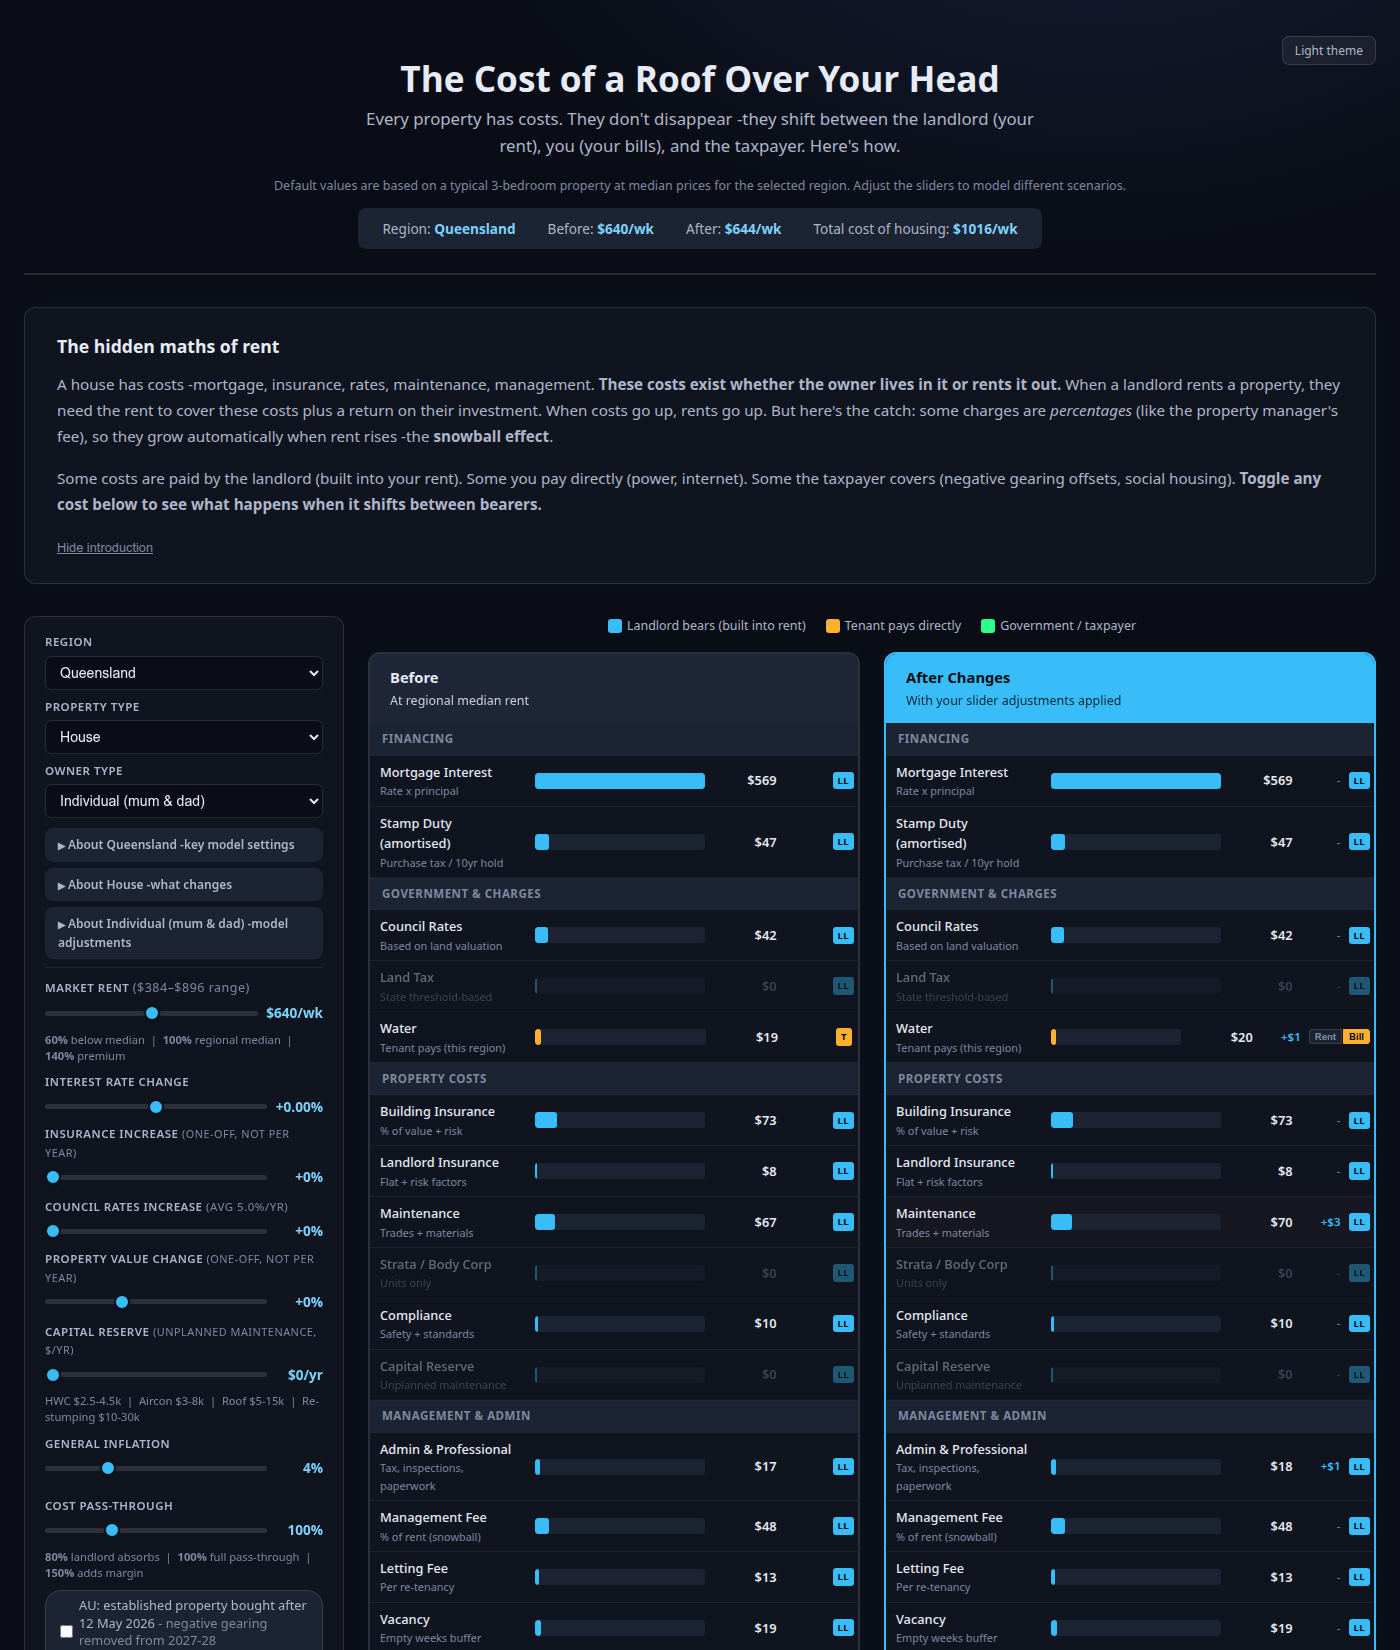
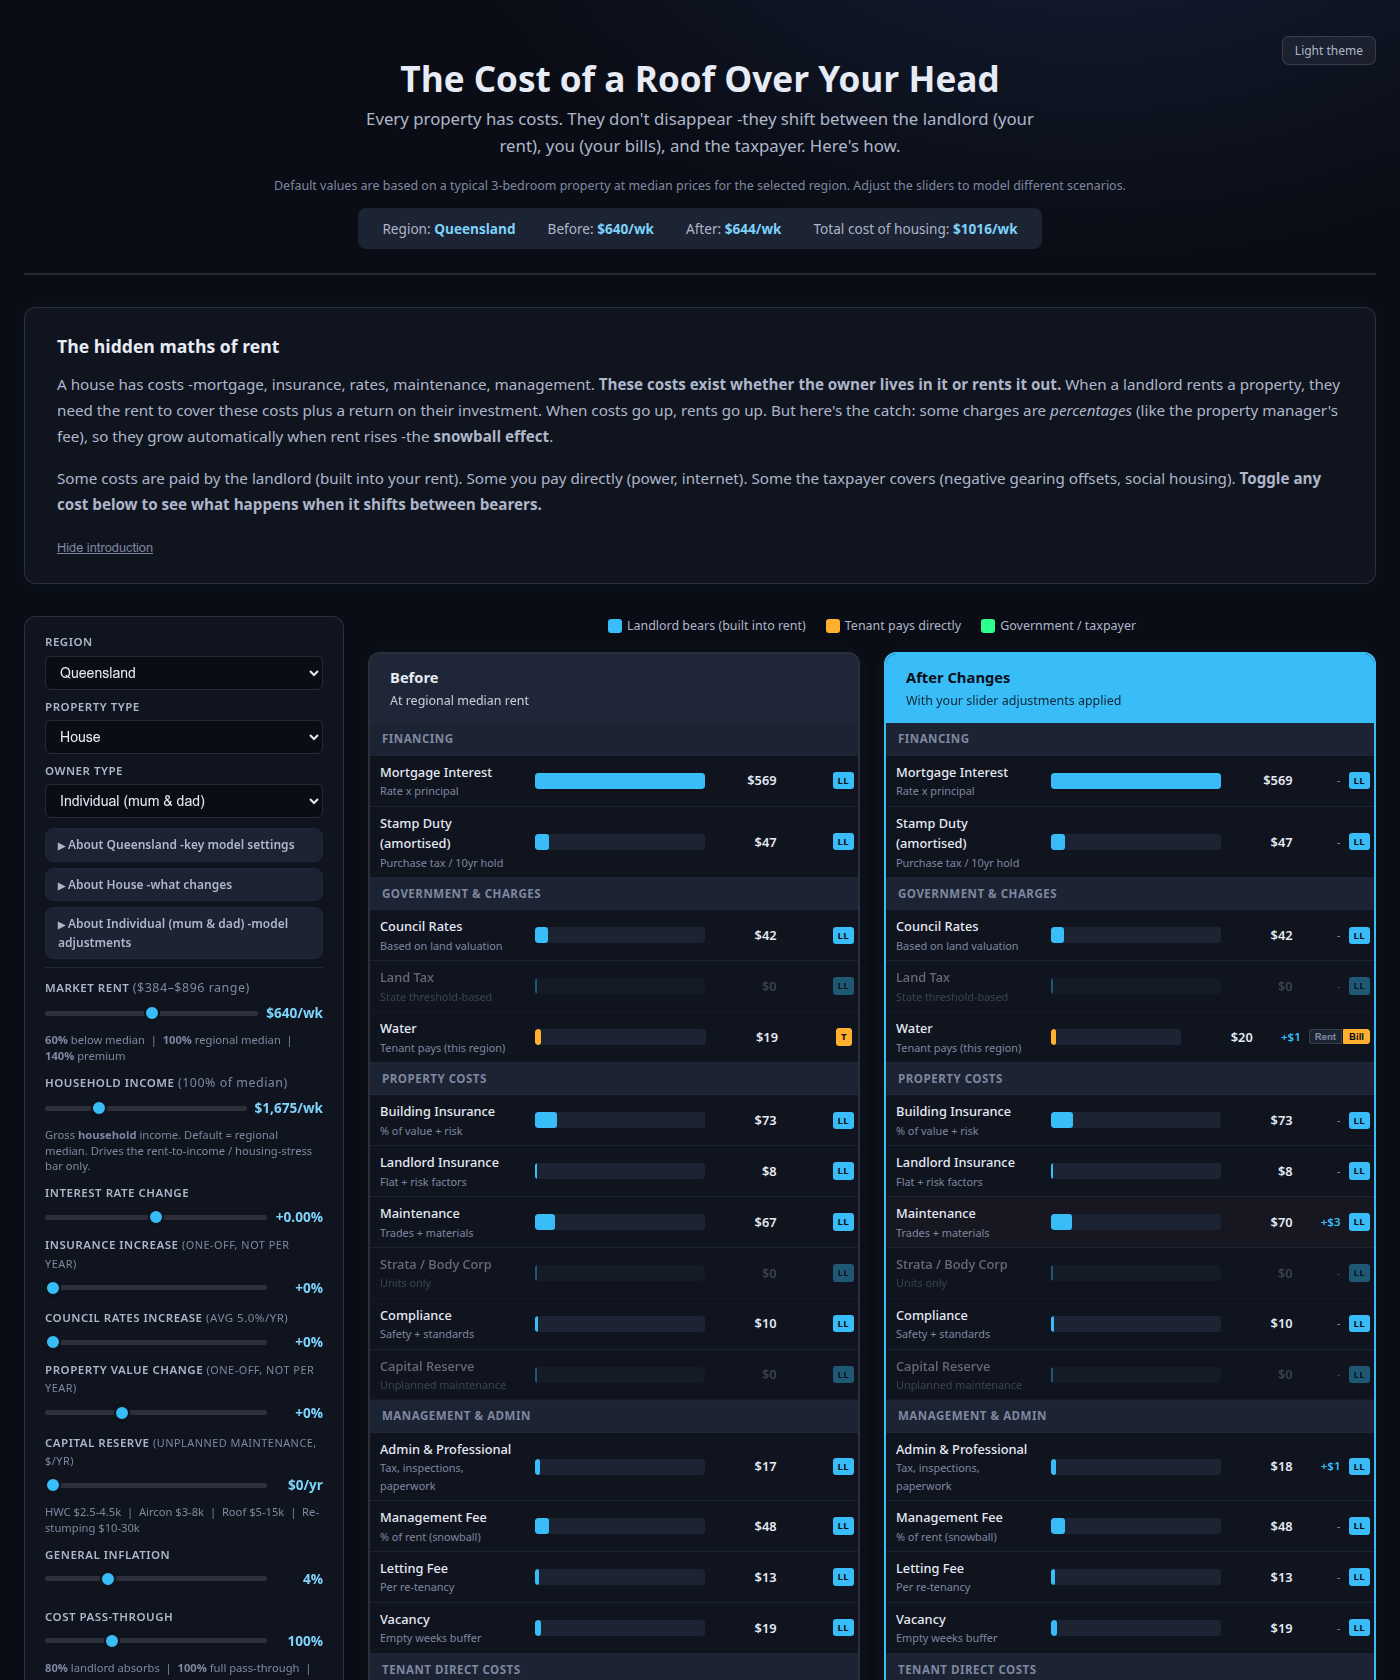
Add household income slider to rent-to-income section
- New sidebar slider (gross household income, $/wk), default = regional median,
  range scales 0.5x-2.5x the regional median, re-defaults on region change
- Drives the rent-to-income / housing-stress bar and the plotter's RTI axis only
  (kept separate from the landlord tax calc)
- README bullet + refreshed screenshots

diff --git a/index.html b/index.html
@@ -591,6 +591,16 @@ footer a { color: var(--terracotta); text-decoration: none; }
     </div>
   </div>
   <div class="ctrl-row">
+    <div class="slider-grp" style="flex:2;"><label>Household Income <span class="rent-range-hint" id="incHint">(gross, per week)</span></label>
+      <div class="sl-row"><input type="range" id="slIncome" min="825" max="4200" value="1675" step="25" oninput="go()"><span class="sl-val" id="vIncome">$1,675/wk</span></div>
+    </div>
+    <div class="slider-grp" style="display:flex;align-items:flex-end;">
+      <div style="font-size:0.7rem;color:var(--text-light);line-height:1.4;">
+        Gross <strong>household</strong> income. Default = regional median. Drives the rent-to-income / housing-stress bar only.
+      </div>
+    </div>
+  </div>
+  <div class="ctrl-row">
     <div class="slider-grp"><label>Interest Rate Change</label>
       <div class="sl-row"><input type="range" id="slRate" min="-200" max="200" value="0" step="25" oninput="go()"><span class="sl-val" id="vRate">+0.00%</span></div>
     </div>
@@ -1129,6 +1139,12 @@ function go() {
   $('vRent').textContent = '$' + userRent + '/wk';
   $('rentRangeHint').textContent = '($' + Math.round(medRent*0.6) + '–$' + Math.round(medRent*1.4) + ' range)';
 
+  // Household income display (absolute $/wk; default = regional median)
+  const income = +$('slIncome').value;
+  const medInc = R[reg].medInc;
+  $('vIncome').textContent = '$' + income.toLocaleString() + '/wk';
+  $('incHint').textContent = '(' + Math.round(income / medInc * 100) + '% of median)';
+
   const d = calcAll(reg, typ, own, dRate, dIns, dVal, inf, pt, rentPct, dRates);
 
   // Update panel subtitle with rent context
@@ -1617,7 +1633,7 @@ function renderScenarios() {
   // Transform for y-axis mode
   function transformSeries(vals, scenarioId) {
     if (yAxis === 'rent') return vals;
-    if (yAxis === 'rti') return vals.map(v => (v / r.medInc) * 100);
+    if (yAxis === 'rti') { const inc = +$('slIncome').value || r.medInc; return vals.map(v => (v / inc) * 100); }
     if (yAxis === 'cashflow') {
       const costs = series['costs'];
       if (!costs) return vals;
@@ -1854,7 +1870,7 @@ function renderRentIncome(d) {
   const rent = d.aftRent;
   const tBills = sumBearer(d, 'after', 'T') / 52;
   const totalHousing = rent + tBills;
-  const income = r.medInc;
+  const income = +$('slIncome').value || r.medInc;
   const pctRent = (rent / income) * 100;
   const pctTotal = (totalHousing / income) * 100;
   const color = pctTotal < 30 ? 'rib-green' : pctTotal < 40 ? 'rib-amber' : 'rib-red';
@@ -1862,7 +1878,7 @@ function renderRentIncome(d) {
 
   el.innerHTML = `
     <div class="rib-header">
-      <span class="rib-label">Rent-to-Income (median household: $${Math.round(income)}/wk ${r.cur})</span>
+      <span class="rib-label">Rent-to-Income (household $${Math.round(income).toLocaleString()}/wk ${r.cur}${income===r.medInc?', regional median':''})</span>
       <span class="rib-pct">${pctTotal.toFixed(0)}% of income${stress}</span>
     </div>
     <div class="rib-bar-outer">
@@ -1896,6 +1912,17 @@ function toggleBearer(key, val) {
   go();
 }
 
+// Household-income slider spans ~0.5x-2.5x the regional median household income (step $25),
+// re-defaulting to the median whenever the region changes. Drives the rent-to-income bar only.
+function syncIncomeSlider(reg) {
+  const med = R[reg].medInc;
+  const s = $('slIncome');
+  s.min = Math.round(med * 0.5 / 25) * 25;
+  s.max = Math.round(med * 2.5 / 25) * 25;
+  s.step = 25;
+  s.value = med;
+}
+
 let lastRegion = null;
 function regionChanged() {
   const reg = $('selRegion').value;
@@ -1904,6 +1931,7 @@ function regionChanged() {
     initBearers(reg);
     $('slRent').value = 100; // reset rent to median on region change
     $('slRates').value = 0; // reset rates to 0 on region change
+    syncIncomeSlider(reg); // reset income to the new region's median
   }
 }
 
@@ -1929,6 +1957,7 @@ function preset(n) {
   $('slPass').value = p.pt;
   $('slRent').value = 100; // reset rent to median on preset
   if (p.reg) { $('selRegion').value = p.reg; regionChanged(); }
+  syncIncomeSlider($('selRegion').value); // reset income to median on preset
   document.querySelectorAll('.preset-btn').forEach(b => b.classList.remove('active'));
   document.querySelectorAll('.preset-btn').forEach(b => {
     if (b.textContent === p.lb) b.classList.add('active');
@@ -1936,7 +1965,7 @@ function preset(n) {
   go();
 }
 
-['slRate','slIns','slRates','slCapRes','slVal','slInf','slPass','slRent'].forEach(id =>
+['slRate','slIns','slRates','slCapRes','slVal','slInf','slPass','slRent','slIncome'].forEach(id =>
   $(id).addEventListener('input', () => { actPreset = null; })
 );
 
@@ -1968,6 +1997,7 @@ try { applyTheme(localStorage.getItem('rpm-theme') || 'neon'); } catch(e){ apply
 // Init
 initBearers('qld');
 lastRegion = 'qld';
+syncIncomeSlider('qld');
 go();
 </script>
 </body>

diff --git a/README.md b/README.md
@@ -22,7 +22,7 @@ Neon-dark theme (default) with a Light toggle in the top-right:
 - **Shift cost bearers** -click any cost line to move it between landlord, tenant, and government to explore policy alternatives
 - **Load scenario presets** -2019 baseline, COVID era, 2023 peak, current 2026, QLD cyclone, NZ earthquake
 - **View the 5-year plotter** -compare market trajectory against policy options (illustrative 2% rent cap, CPI-linked cap, rent freeze)
-- **Check rent-to-income** -visual gauge showing housing stress thresholds against regional median household income
+- **Check rent-to-income** -visual gauge showing housing stress thresholds against your household income (defaults to the regional median, adjustable via a slider)
 
 ## The core idea
 